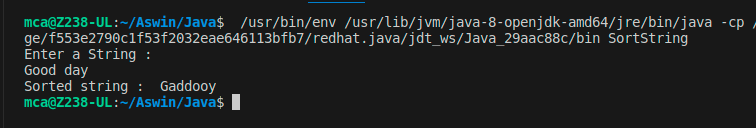
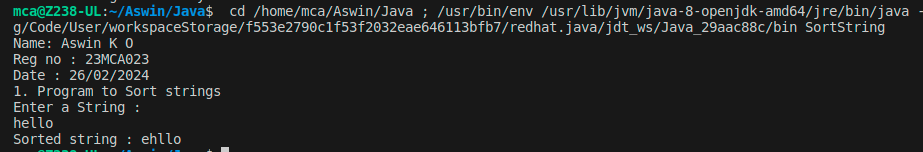
cycle2 partially complete

Changed region(s): [[0.0, 0.0, 1.0, 0.875], [0.0, 0.875, 0.2738, 1.0]]

diff --git a/Cycle2/SearchElement.java b/Cycle2/SearchElement.java
@@ -15,6 +15,9 @@ public class SearchElement {
 
     public static void main(String[] args) {
 
+        System.out.println("Name: Aswin K O \nReg no : 23MCA023 \nDate : 26/02/2024");
+        System.out.println("2. Search an element in an array.");
+
         int size = 2;
         int arr[] = new int[size];
 
@@ -26,7 +29,7 @@ public class SearchElement {
             arr[i] = sc.nextInt();
         }
 
-        System.out.println("Enter the valu to be searched : ");
+        System.out.println("Enter the value to be searched : ");
         int key = sc.nextInt();
 
         int res = search(arr, key);

diff --git a/Cycle2/StringManipulation.java b/Cycle2/StringManipulation.java
@@ -1,5 +1,11 @@
 public class StringManipulation {
     public static void main(String[] args) {
+
+
+        System.out.println("Name: Aswin K O \nReg no : 23MCA023 \nDate : 26/02/2024");
+        System.out.println("3. Perform string manipulations");
+
+
         // StringBuilder for string concatenation
         StringBuilder sb = new StringBuilder();
         sb.append("Hello");

diff --git a/Cycle2/SortString.java b/Cycle2/SortString.java
@@ -4,6 +4,9 @@ import java.util.Scanner;
 class SortString {
     public static void main(String[] args) {
 
+        System.out.println("Name: Aswin K O \nReg no : 23MCA023 \nDate : 26/02/2024");
+        System.out.println("1. Program to Sort strings");
+
         int size, temp;
 
         Scanner sc = new Scanner(System.in);
